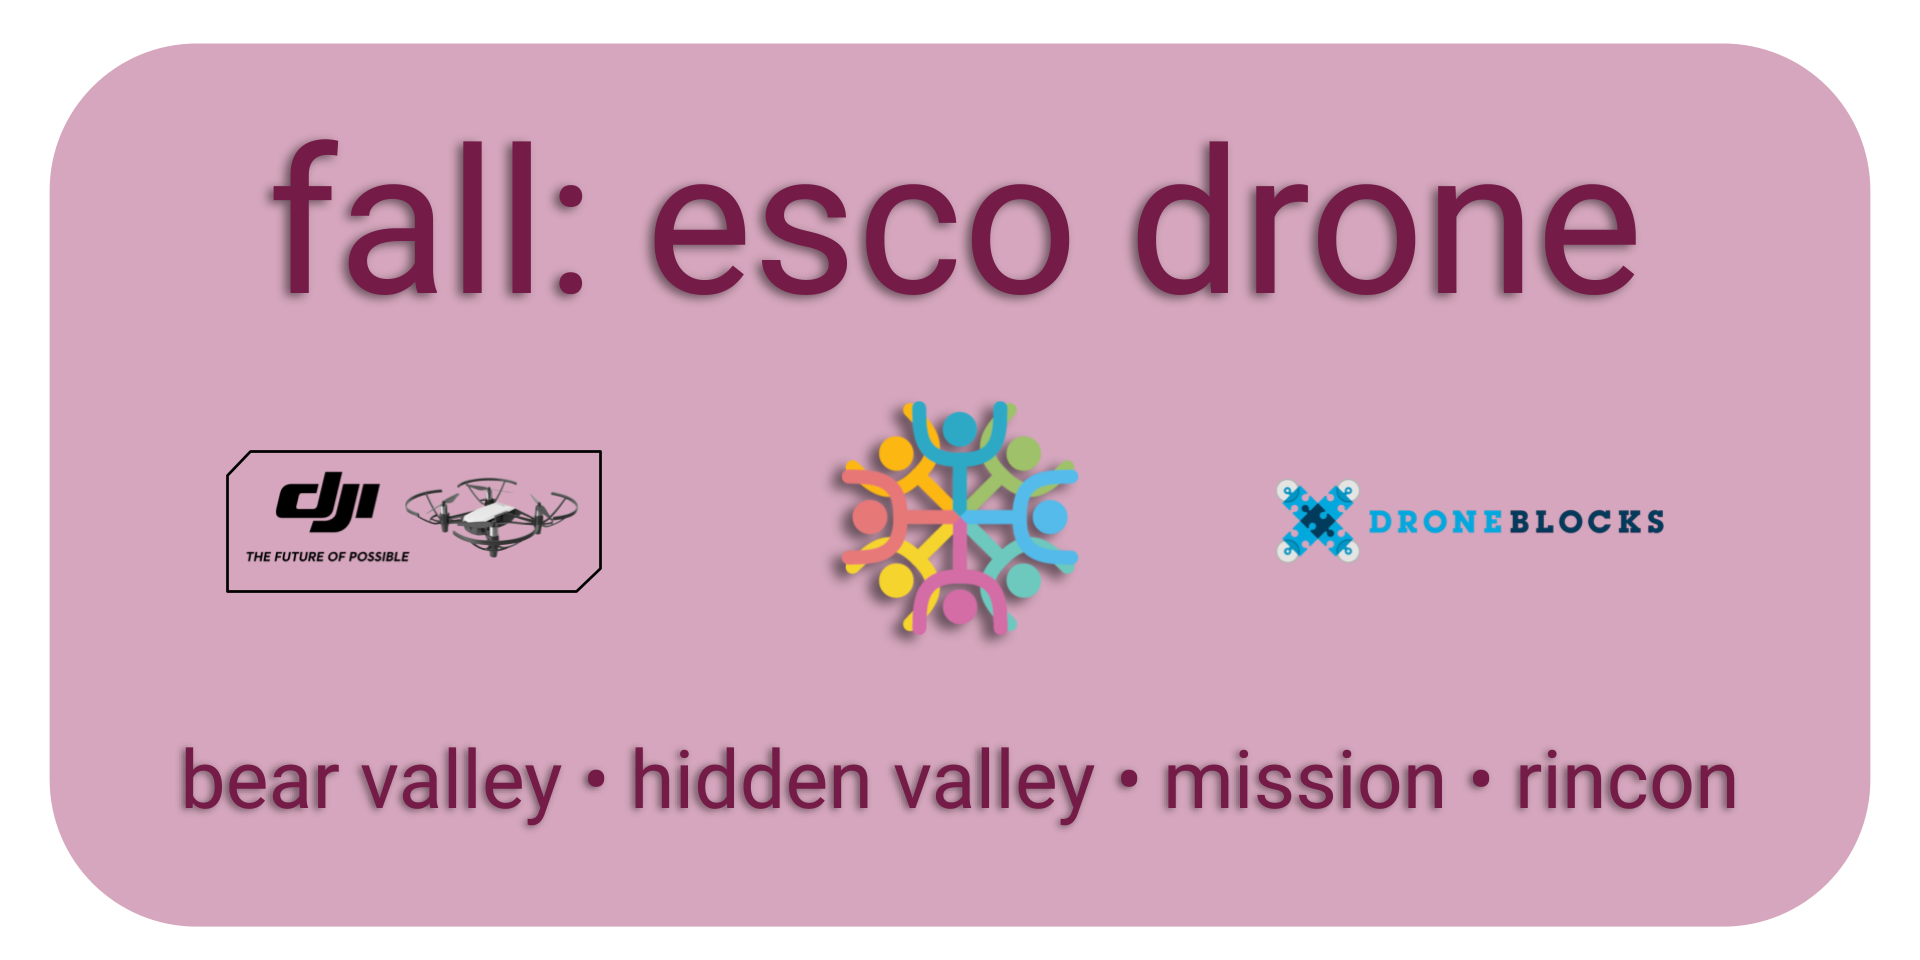
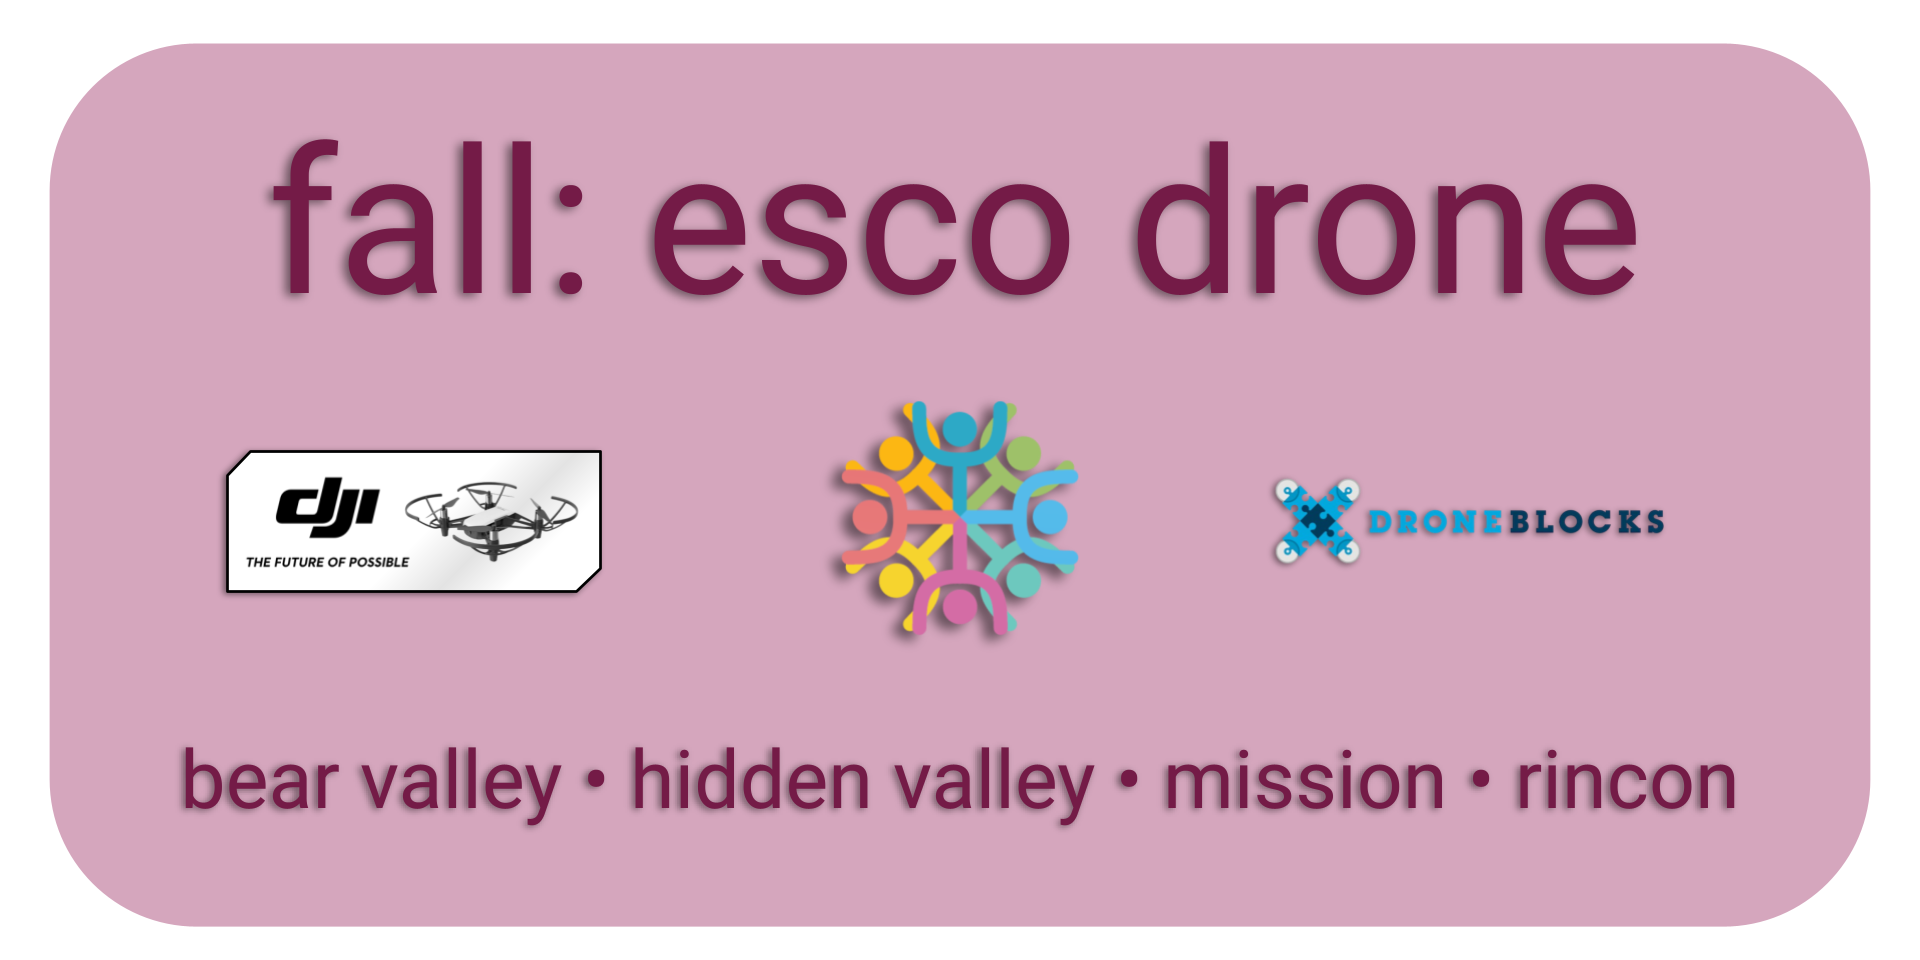
25 11 03 A
- Updated nav image, added hover
- Linked Lemon Grove program doc

Changed region(s): [[0.0938, 0.4688, 0.3125, 0.625], [0.6562, 0.5, 0.875, 0.5938]]

diff --git a/index.html b/index.html
@@ -34,7 +34,7 @@
           <div class="nav-dropdown">
             <a class="page dropbtn">links</a>
             <div class="nav-dropdown-content">
-              <a href="#" target="_blank">lemon grove</a>
+              <a href="https://docs.google.com/document/d/17P8jRzS8m7i6Blzc8N-CQ5di3Zc5ziNUiy6PqSxkaQw/edit?usp=sharing" target="_blank">lemon grove</a>
               <a href="#" target="_blank">esco YMCA</a>
               <a href="#" target="_blank">esco drone</a>
               <a href="https://app.gusto.com/treobytes/employee/time_tracking" target="_blank">gusto payroll</a>
@@ -80,7 +80,7 @@
             Filament <br>Tracking Form
           </div>
         </a>
-        <a href="#" target="_blank" class="item item004">
+        <a href="https://docs.google.com/document/d/17P8jRzS8m7i6Blzc8N-CQ5di3Zc5ziNUiy6PqSxkaQw/edit?usp=sharing" target="_blank" class="item item004">
           <img src="images/tools/25F_LemonGrove_1919x930.png" alt="image">
           <div class="middle">
             Facilitator Resources: <br>Lemon Grove Program
